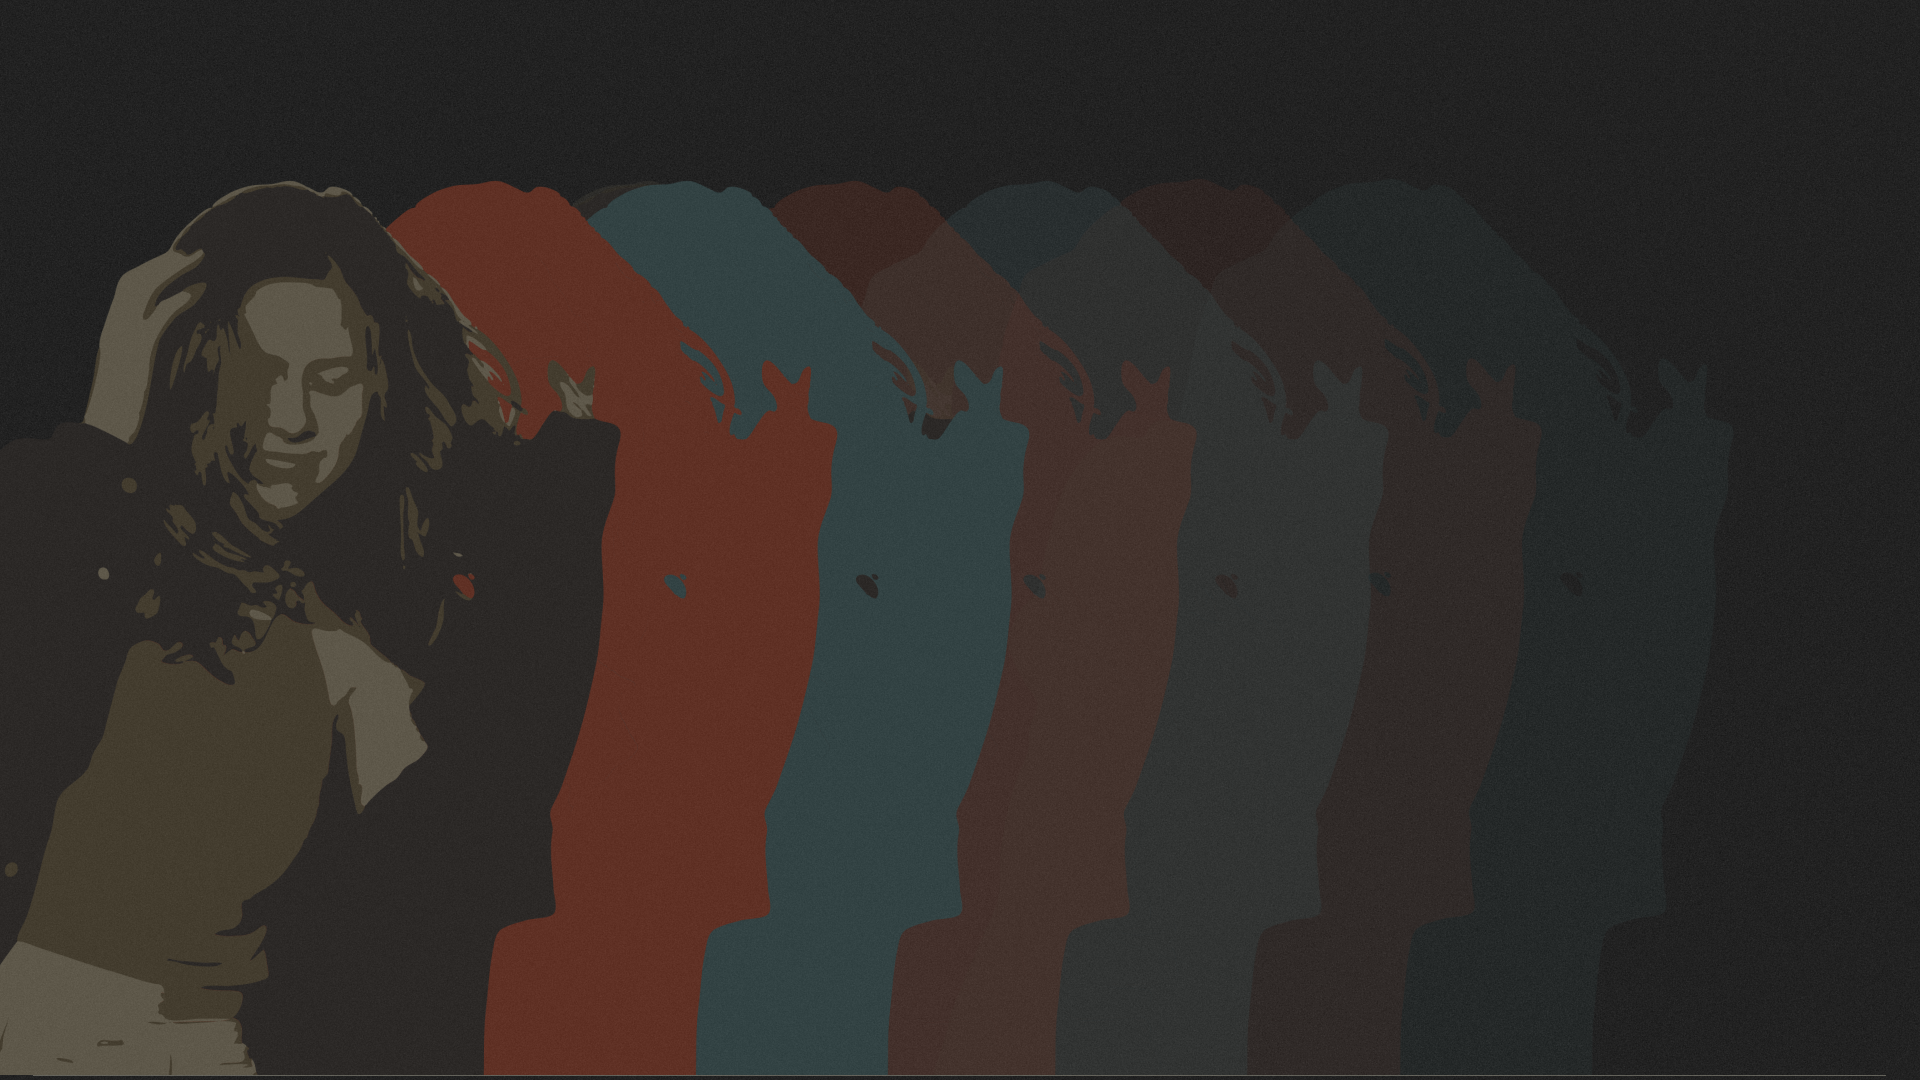
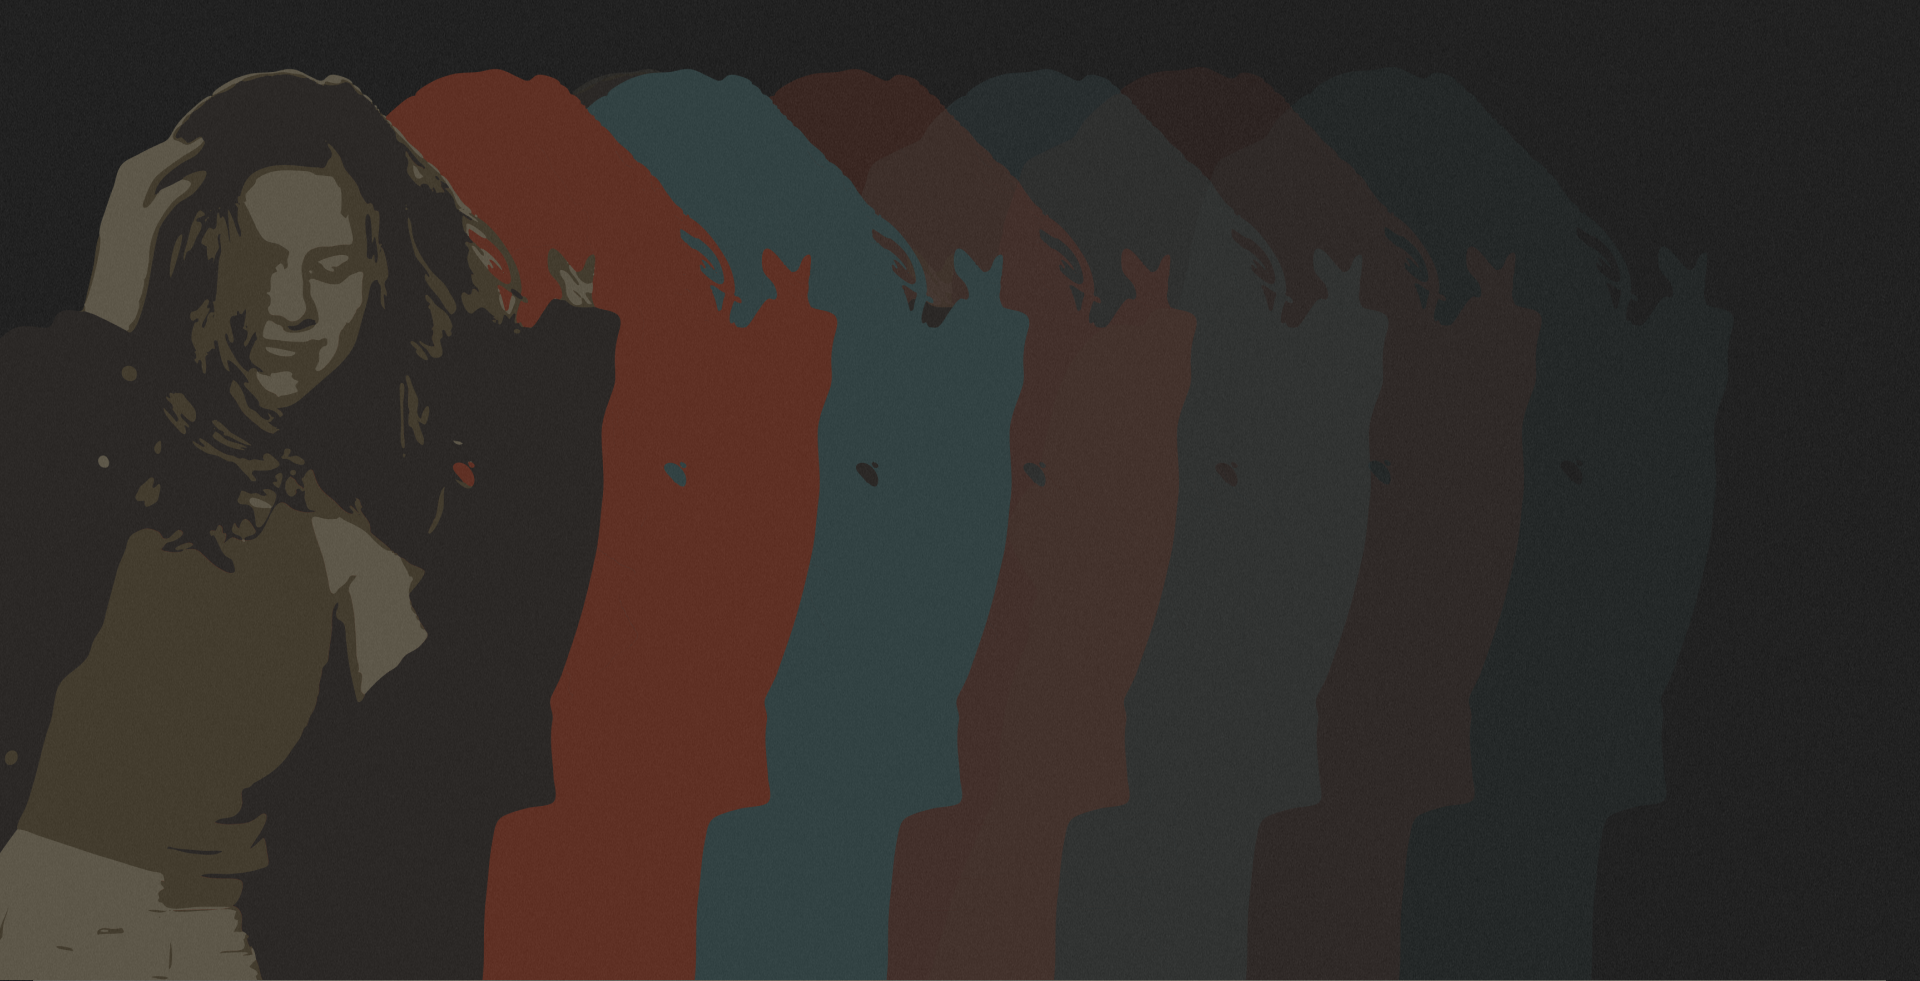
navbar...

diff --git a/aboutme.css b/aboutme.css
@@ -12,7 +12,7 @@ body {
 .hero {
   background-image: url('images/HERO\ ABOUT.png');
   background-repeat: no-repeat;
-  background-size:contain;
+  background-size: cover;
 }
 
 
@@ -119,7 +119,7 @@ h2{
 }
 .navbar-center img {
     height: 50px;
-    display: block;
+    display: flex;
     margin: 0 auto;
     
 }
@@ -129,31 +129,33 @@ h2{
 .findings-fieldr {
     display: flex;
     justify-content: space-between;
-    margin-top: 7%;
     margin-bottom: 15%;
     box-sizing: border-box;
+    height: 100vh;
 }
 
 /* Left content styles */
 .fieldr-left {
     flex: 1;
-    padding: 3vw; 
+    padding-left: 18vw; 
+    padding-top: 10vw;
     box-sizing: border-box;
     overflow: hidden; 
-    max-width: 50%; 
+    max-width: 50%;
+    justify-content: center;
 }
 
 /* Image inside left content */
 .fieldr-left img {
-    max-width: 80%;
+    max-width: 90%;
     height: auto;
-    margin-left: 15%;
 }
 
 /* Right content styles */
 .fieldr-right {
     flex: 1;
-    padding: 3vw;
+    padding-right: 10vw;
+    padding-top: 10vw;
     box-sizing: border-box;
 }
 
@@ -257,7 +259,7 @@ margin-top: 90%;
 
 @media only screen and (max-width: 391px)  {
 .responsiveline{
-    display: block;
+    display: flex;
 }
 
 

diff --git a/style.css b/style.css
@@ -41,6 +41,8 @@ html {
  }
   }
 
+
+
 /* STYLING THE HEADER */
 .navbar {
     background: linear-gradient(to bottom, rgba(0, 0, 0, 0.8), transparent);
@@ -57,7 +59,6 @@ html {
     justify-content: space-between;
     align-items: center;
 }
-
 
 .navbar-left a,
 .navbar-right a {
@@ -112,15 +113,17 @@ html {
     display: flex;
     align-items: center;
     justify-content:center;
-    margin-top: 6.7%;
     width: 100%;
 }
+
 
 .text {
     flex: 1;
     margin-left: 7.3%;
     font-family: 'Outfit', sans-serif;
     font-size: 1.3vw;
+    margin-top: 6%;
+
 }
 
 .herosec .text h1 {
@@ -132,6 +135,8 @@ html {
     width: 50vw;
     max-width: 100%;
     height: auto;
+    margin-top: 11%;
+
 
 }
 
@@ -300,6 +305,7 @@ h2 {
     display: flex;
     justify-content:left;
     align-items: center;
+    margin-top: 5%;
   }
 
   .lineafterskills {

diff --git a/aboutme.html b/aboutme.html
@@ -18,7 +18,6 @@
 </head>
 <body>
     
-    <div class="hero">
 
 
     <header class="navbar">
@@ -52,10 +51,9 @@
     </header>
 
 
-<div class="allshit">
 
 
-
+    <section class="hero">
 
     
 <!-- HERO SECTION -->
@@ -90,14 +88,15 @@
     </div>
 </section>
 
-
-</div>
+</section>
 <!-- end of hero section -->
+
 
 <div class="responsiveline">
     <div class="thin-line"></div>
 </div>
 
+<div class="allshit">
 
 
 

diff --git a/index.html b/index.html
@@ -15,8 +15,7 @@
 <body>
     
 
-  <!-- for the cover image -->
-  <div class="hero">
+
 
 <!-- HEADER -->
 <header class="navbar">
@@ -49,6 +48,10 @@
 
   </div>
 </header>
+
+
+  <!-- for the cover image -->
+  <div class="hero">
 
 
 
